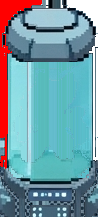
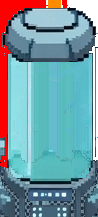
Playtest 28: the Street's Hazmat Worker line (a balloon) no longer opens the dialogue panel on the Agent's old last line; the console without its light, Back level with Play; the tank check image also marks the strip above the cap (red) and its pipe (orange) for Jamie

Changed region(s): [[0.3061, 0.0, 0.7041, 0.0553]]

diff --git a/src/Game/ReactComponents/Game.tsx b/src/Game/ReactComponents/Game.tsx
@@ -648,7 +648,7 @@ export const Game = ({ handleClickHome, triggerTransition, handleShiftHome = und
   const { selectedAvatar, setSelectedAvatar, selectedTeammate, setSelectedTeammate, selectedDifficulty, settingsManager } = useContext(GlobalSettingsContext);
   const { objectiveText, isObjectiveKaijuCount, objectiveCount } = useSnapshot(gameUiStore);
   const { takeOverCount, takeOverText } = useSnapshot(gameUiStore);
-  const { isPaused, winner, isPlayerDead, players, recruits, kaijuKillCount, kaijuToWin, activePhases, isWideShot, isCutscene, unlockMessage, unlockImage, speech, recruitScene, dialogueLog, isDialogueWaiting, isTalking, isRecruitTalkDone, speakingPieceIndex, isHudsKept } = useSnapshot(gameUiStore);
+  const { isPaused, winner, isPlayerDead, players, recruits, kaijuKillCount, kaijuToWin, activePhases, isWideShot, isCutscene, unlockMessage, unlockImage, speech, recruitScene, dialogueLog, isDialogueWaiting, isTalking, isRecruitTalkDone, speakingPieceIndex, isHudsKept, isBalloonScene } = useSnapshot(gameUiStore);
   const [isRadioAlarm, setIsRadioAlarm] = useState(false); // the radio call has told of Kaiju coming: the siren glows
   const recruitChoiceFrom = useRef(undefined); // where the pressed Recruit or Terminate button was, for its word to fly from
   const [isClickThrough, setClickThrough] = useState(getIsClickThrough); // a playtest: each line in the log waits for a key or a click
@@ -1557,7 +1557,7 @@ export const Game = ({ handleClickHome, triggerTransition, handleShiftHome = und
   // what stands beside the monitor in a game: the HUDs, the dialogue panel, the Lab's color vat
   const isHudsShowing = !isEditingTiles && !isLogClosing && !isSideLeaving && (!level.isWalkingLevel || isRewarding) && (!isCutscene || isHudsKept) && !recruitScene && !(matchEnd && matchEnd.isFinale);
   hudsShowingRef.current = isHudsShowing;
-  const isLogShowing = !isSideLeaving && labScreen != "colors" && (isCutscene || !!recruitScene || isTalking);
+  const isLogShowing = !isSideLeaving && labScreen != "colors" && ((isCutscene && !isBalloonScene) || !!recruitScene || isTalking);
   // the monitor holds its place through the game (Jamie, playtest 27: it eased to the middle whenever nothing was
   // beside it, and back as HUDs or the dialogue panel came: shifting after battles, at the Agent, at the Hazmat Worker)
   const gameWindow = playWindow;
@@ -1991,7 +1991,7 @@ export const Game = ({ handleClickHome, triggerTransition, handleShiftHome = und
               )}
               entries={dialogueLog}
               isWaiting={isDialogueWaiting}
-              isVisible={!isSideLeaving && labScreen != "colors" && (isCutscene || !!recruitScene || isTalking)} // paused, it stays as it was (Jamie)
+              isVisible={isLogShowing} // paused, it stays as it was (Jamie)
               onContinue={() => gameManager.current && gameManager.current.advanceDialogue()}
               onBuilt={setIsLogBuilt}
               onClosing={isClosing => {

diff --git a/src/Game/DataClasses/GameManager.js b/src/Game/DataClasses/GameManager.js
@@ -2228,13 +2228,15 @@ export class GameManager {
     // but the HUDs stay up and the log stays closed
     // 'isNoEstablish': no hold on the whole scene first (back from a training win: Jamie, playtest 20)
     // 'keepsHuds': the HUDs stay up through it (the Peninsula's arrival: each comes as its avatar shows: Jamie)
-    startCutscene(steps, { isMidFight = false, isPortalWalk = false, isNoEstablish = false, keepsHuds = false } = {}) {
+    // 'isBalloonOnly': its words are a balloon, not the log: the dialogue panel stays shut (the Hazmat Worker's word on
+    // the Street opened the panel on the Agent's old last line, as if his talk replayed: Jamie, playtest 28)
+    startCutscene(steps, { isMidFight = false, isPortalWalk = false, isNoEstablish = false, keepsHuds = false, isBalloonOnly = false } = {}) {
         if (!isPortalWalk) this.endTravelForScene();
         if (!isMidFight && !isPortalWalk) this.spreadOutForScene();
         // in the log, a conversation in a wide shot cuts to each speaker: first it holds on the whole scene
         const [first] = steps;
         if (!isNoEstablish && getIsDialogueLog() && first && first.speech && first.shot && first.shot.isWide) steps = [{ shot: { isWide: true }, ms: DIALOGUE.establishMs }, ...steps];
-        this.cutscene = { steps, index: -1, msLeft: 0, isMidFight, keepsHuds };
+        this.cutscene = { steps, index: -1, msLeft: 0, isMidFight, keepsHuds, isBalloonOnly };
         this.nextCutsceneStep();
     }
 
@@ -3321,7 +3323,7 @@ export class GameManager {
             { shot, ms: CUTSCENE.pullInMs },
             { shot, ms: getSpeechMs(text), speech },
             { shot, ms: 0, onStart: showCard }
-        ]);
+        ], { isBalloonOnly: true });
         if (this.level.greeting) this.nextGreetingAtMs = Math.max(this.nextGreetingAtMs || 0, this.accTime + this.level.greeting.repeatMs);
     }
 
@@ -3611,6 +3613,7 @@ export class GameManager {
             activePhases: this.getActivePhases(),
             isWideShot: this.getIsWideShot(),
             isCutscene: !!this.cutscene && !this.cutscene.isMidFight, // a mid-fight scene keeps the HUDs up
+            isBalloonScene: !!this.cutscene && !!this.cutscene.isBalloonOnly,
             isHudsKept: !!this.cutscene && !!this.cutscene.keepsHuds,
             unlockMessage: this.unlockMessage,
             unlockImage: this.unlockImage,

diff --git a/src/Game/ReactComponents/AbilityPicker.jsx b/src/Game/ReactComponents/AbilityPicker.jsx
@@ -631,8 +631,7 @@ const ConsoleFace = styled.div`
   align-items: center;
   justify-content: center;
   gap: 1cqw;
-  /* the buttons' middle three quarters of the way down (Jamie): the face's lower half, centered */
-  padding-top: ${(CONSOLE.height - 2 * CONSOLE.rim) / 2}cqw;
+  /* the buttons in the face's middle, side by side (Jamie, playtest 28: Back level with Play; was the lower half) */
   border-radius: 0.7cqw;
   /* brushed metal, dimmer (Jamie): fine horizontal streaks, a little lighter toward the top. Recessed in the case:
      the case's lip throws a shadow in along its top and left, and its bottom edge catches the light */
@@ -1068,7 +1067,7 @@ const MetalButton = styled.button`
   ${props => props.$isMain && css`
     font-size: 1.33cqw; /* (5/6 of the first try's: Jamie, playtest 28) */
     padding: 0.71cqw 1.25cqw;
-    translate: -0.6cqw -${(CONSOLE.height - 2 * CONSOLE.rim) / 4}cqw; /* ('translate': the press's transform still works) */
+    translate: -0.6cqw 0; /* ('translate': the press's transform still works) */
   `}
   &:disabled {
     cursor: default;
@@ -1105,7 +1104,7 @@ export const PlayConsole = ({ isReady, playLabel, onPlay, onBack, isLeaving = fa
           {[[0.5, 0.5, 20], [null, 0.5, -35], [0.5, null, 60], [null, null, 5]].map(([screwLeft, top, turn], k) => (
             <Screw key={k} $turn={turn} style={{ left: screwLeft == null ? undefined : `${screwLeft}cqw`, right: screwLeft == null ? "0.5cqw" : undefined, top: top == null ? undefined : `${top}cqw`, bottom: top == null ? "0.5cqw" : undefined }} />
           ))}
-          <ReadyLight $isOn={isReady} />
+          {/* (no ready light: Jamie, playtest 28) */}
           <MetalButton disabled={!isReady} $isBacklit={isReady} $isCompact={isCompact} $isMain={!isCompact} onClick={onPlay}>{playLabel}</MetalButton>
           {onBack && <MetalButton disabled={isBackDisabled} $isCompact={isCompact} onClick={onBack}>{backLabel}</MetalButton>}
         </ConsoleFace>

diff --git a/src/Game/DataClasses/level.test.ts b/src/Game/DataClasses/level.test.ts
@@ -2038,7 +2038,7 @@ describe('recruit calls', () => {
 
   it('no one can be called during a cutscene', () => {
     const { gm } = makeGame();
-    gm.cutscene = { steps: [], index: 0, msLeft: 0, isMidFight: false, keepsHuds: false };
+    gm.cutscene = { steps: [], index: 0, msLeft: 0, isMidFight: false, keepsHuds: false, isBalloonOnly: false };
     expect(gm.callRecruit('punk')).toBe(false);
   });
 });

diff --git a/src/Game/DataClasses/gameUiStore.ts b/src/Game/DataClasses/gameUiStore.ts
@@ -19,6 +19,7 @@ export const gameUiStore = proxy({
   isWideShot: false,
   isCutscene: false,
   isHudsKept: false, // (a scene that keeps the HUDs up: the Peninsula's arrival)
+  isBalloonScene: false, // (a scene whose words are a balloon: the dialogue panel stays shut)
   unlockMessage: '',
   unlockImage: '',
   speech: null,
